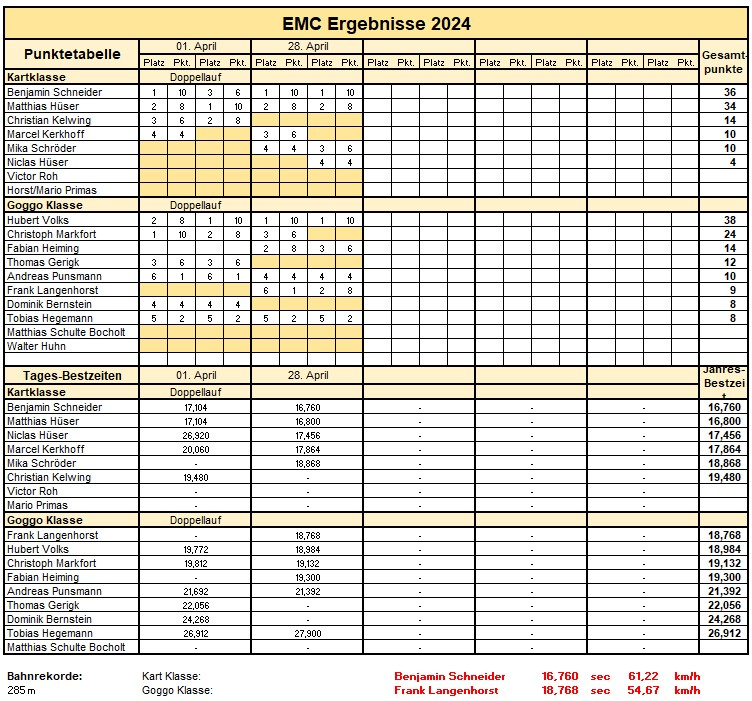
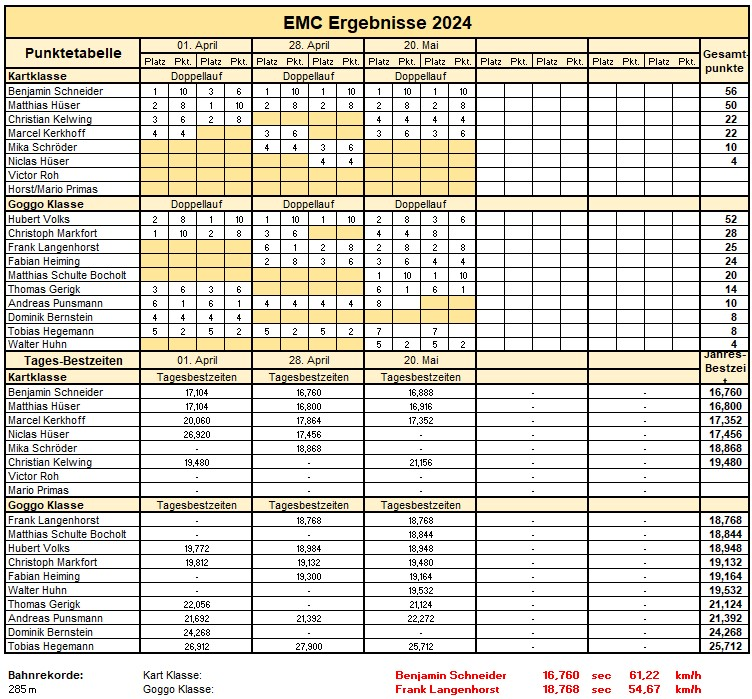
Mai 24

diff --git a/index.html b/index.html
@@ -8,6 +8,50 @@ description: Kartsport mit "Goggo"-Karts und konventionellen Karts
 <!-------------------------------------------------------------------------->
 <h2 align="center">Das Jahr 2024</h2>
 
+<h3 align="center">3. Lauf um den Jahrespokal des EMC am 20. Mail 2024</h3>
+<p align="justify">
+  Der Renntag am Pfingstmontag fand bei trockenem und sommerlichem Wetter statt.
+  In beiden Klassen gingen erfreulich viele Fahrer mit ihren Fahrzeuge an den
+  Start. In den Spitzengruppen lagen die Leistungen eng beieinander und wird
+  konnten spannende Rennläufe beobachten.
+</p>
+<p align="justify">
+  In der Goggo-Klasse konnte Matthias Schulte-Bocholt das Training nicht beenden,
+  da er durch einen Brand in der Fahrzeugelektrik ausfgeben musste. Er konnte
+  sein Fahrzeug bis zum Rennbeginn aber wieder reparieren und siegte in beiden
+  Läufen. Die weiteren Plätze für den Tagessieg belegten Frank Langenhorst,
+  Hubert Volks und Fabian Heiming.
+</p>
+<p align="justify">
+  In der Kartklasse bot sich ein ähnliches Bild. Benjamin Schneider konnte
+  wegen Vergaserproblemen ebenfalls keine gute Trainingszeit vorweisen. Zum
+  Rennen war sein Kart aber wieder einsatzbereit und er konnte 2 Siege einfahren.
+  Matthias Hüser in beiden Läufen nur knapp dahinter auf dem 2. Platz, dahinter
+  fuhren Marcel Kerkhoff und Christian Kellwing ins Ziel.
+</p>
+<figure class="gesamt">           <!-- 2 Bilder nebeneinander anordnen -->
+      <figure class="einzel2">    <!-- Originalgröße 1630 x 1400 einstellen -->
+           <img src="img/rennen/2024.05.20_goggo.jpg" alt="Sieger Goggo" />
+           <figcaption>Tagessieger Goggo</figcaption>
+      </figure>
+      <figure class="einzel2">
+           <img src="img/rennen/2024.05.20_kart.jpg" alt="Sieger Kart" />
+           <figcaption>Tagessieger Kart</figcaption>
+      </figure>
+</figure>
+<div class="textspalten2">       <!-- Bildunterschrift in 2 Spalten anordnen -->
+   <ul>
+    	<li>1. Matthias Schulte-Bocholt</li>
+   		<li>2. Frank Langenhorst</li>
+   		<li>3. Hubert Volks</li>
+   		<li>4. Fabian Heiming</li>
+   		<li>1. Benjamin Schneider</li>
+      <li>2. Matthias Hüser</li>
+      <li>3. Marcel Kerkhoff</li>
+      <li>4. Christian Kellwing</li>
+   </ul>
+</div>
+
 <h3 align="center">2. Lauf um den Jahrespokal des EMC am 28. April 2024</h3>
 <p align="justify">
   Der 2. Renntag des EMC fand bei trockenem Wetter auf der Bahn statt. Wie
